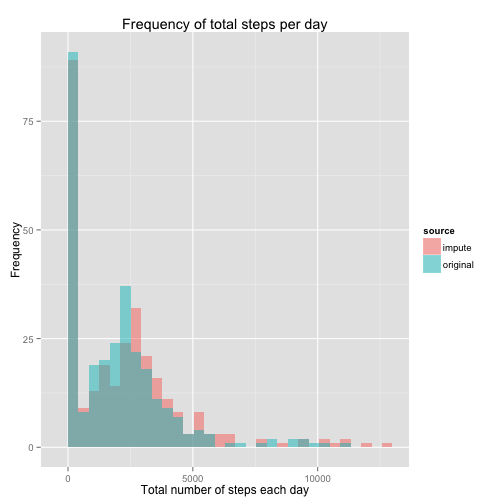
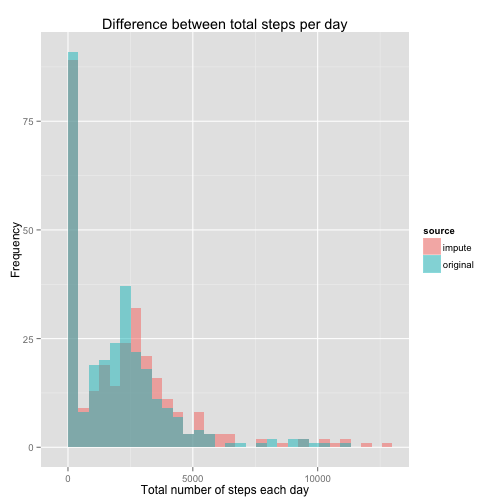
Moar tidy

Changed region(s): [[0.2083, 0.0298, 0.6845, 0.0595]]

diff --git a/PA1_template.html b/PA1_template.html
@@ -240,21 +240,15 @@ plot(figure.stepsDay)
 
 <h3>The mean and median total number of steps taken per day</h3>
 
-<p><em>Mean</em> number of steps per day:</p>
-
-<pre><code class="r">mean(summary.stepsDay$totalSteps, na.rm = TRUE)
+<pre><code class="r">meanStepsDay &lt;- mean(summary.stepsDay$totalSteps, na.rm = TRUE)
 </code></pre>
 
-<pre><code>## [1] 9354
+<p><em>Mean</em> number of steps per day: <strong>9354.2295</strong></p>
+
+<pre><code class="r">medianStepsDay &lt;- median(summary.stepsDay$totalSteps, na.rm = TRUE)
 </code></pre>
 
-<p><em>Median</em> number of steps per day:</p>
-
-<pre><code class="r">median(summary.stepsDay$totalSteps, na.rm = TRUE)
-</code></pre>
-
-<pre><code>## [1] 10395
-</code></pre>
+<p><em>Median</em> number of steps per day: <strong>10395</strong></p>
 
 <h2>What is the average daily activity pattern?</h2>
 
@@ -279,26 +273,20 @@ plot(figure.stepsInterval)
 
 <h3>The five minute interval that on average contains the most number of steps</h3>
 
-<p>Five minute interval:</p>
-
 <pre><code class="r">summary.stepsIntervalMax &lt;- summary.stepsInterval[which.max(summary.stepsInterval$meanSteps),]
-summary.stepsIntervalMax$interval
+intervalMax &lt;- summary.stepsIntervalMax$interval
 </code></pre>
 
-<pre><code>## [1] 835
-</code></pre>
+<p>Five minute interval that on average contains the most number of steps is: <strong>835</strong></p>
 
 <h2>Imputing missing values</h2>
 
 <h3>Total number of missing values in the dataset (i.e. the total number of rows with NAs)</h3>
 
-<p>Total number of missing values in the dataset is:</p>
-
-<pre><code class="r">sum(is.na(data.all))
+<pre><code class="r">naSum &lt;- sum(is.na(data.all))
 </code></pre>
 
-<pre><code>## [1] 2304
-</code></pre>
+<p>Total number of missing values in the dataset is: <strong>2304</strong></p>
 
 <h3>Replace missing values</h3>
 
@@ -335,21 +323,15 @@ plot(figure.stepsDayImpute)
 
 <h3>The mean and median total number of steps taken per day</h3>
 
-<p><em>Mean</em> number of steps per day imputed:</p>
-
-<pre><code class="r">mean(summary.stepsDayImpute$totalSteps, na.rm = TRUE)
+<pre><code class="r">meanStepsDayImpute &lt;- mean(summary.stepsDayImpute$totalSteps, na.rm = TRUE)
 </code></pre>
 
-<pre><code>## [1] 10766
+<p><em>Mean</em> number of steps per day imputed: <strong>1.0766 &times; 10<sup>4</sup></strong></p>
+
+<pre><code class="r">medianStepsDayImpute &lt;- median(summary.stepsDayImpute$totalSteps, na.rm = TRUE)
 </code></pre>
 
-<p><em>Median</em> number of steps per day imputed:</p>
-
-<pre><code class="r">median(summary.stepsDayImpute$totalSteps, na.rm = TRUE)
-</code></pre>
-
-<pre><code>## [1] 10766
-</code></pre>
+<p><em>Median</em> number of steps per day imputed: <strong>1.0766 &times; 10<sup>4</sup></strong></p>
 
 <h3>Does the imputed data differ from the orginal data?</h3>
 
@@ -368,7 +350,7 @@ summary.stepsDayCombined &lt;- ddply(data.combined, .(source,interval),
 ## Plot overlaided histograms
 figure.stepsDayCombined &lt;- ggplot(summary.stepsDayCombined, aes(x=totalSteps, fill=source)) + 
                          geom_histogram(alpha=.5, position=&quot;identity&quot;)  +                  
-                         ggtitle(&quot;Frequency of total steps per day&quot;) +
+                         ggtitle(&quot;Difference between total steps per day&quot;) +
                          xlab(&quot;Total number of steps each day&quot;) +
                          ylab(&quot;Frequency&quot;)
 
@@ -378,23 +360,17 @@ plot(figure.stepsDayCombined)
 <pre><code>## stat_bin: binwidth defaulted to range/30. Use &#39;binwidth = x&#39; to adjust this.
 </code></pre>
 
[2 lines of base64/hex data omitted]
 
-<p>The <em>mean</em> number of steps per day from imputed data differs from the orignal by:</p>
-
-<pre><code class="r">mean(summary.stepsDayImpute$totalSteps, na.rm = TRUE) - mean(summary.stepsDay$totalSteps, na.rm = TRUE)
+<pre><code class="r">meanDiff &lt;- mean(summary.stepsDayImpute$totalSteps, na.rm = TRUE) - mean(summary.stepsDay$totalSteps, na.rm = TRUE)
 </code></pre>
 
-<pre><code>## [1] 1412
+<p>The <em>mean</em> number of steps per day from imputed data differs from the orignal by: <strong>1411.9592</strong></p>
+
+<pre><code class="r">medianDiff &lt;- median(summary.stepsDayImpute$totalSteps, na.rm = TRUE) - median(summary.stepsDay$totalSteps, na.rm = TRUE)
 </code></pre>
 
-<p>The <em>median</em> number of steps per day from imputed data differs from the orignal by:</p>
-
-<pre><code class="r">median(summary.stepsDayImpute$totalSteps, na.rm = TRUE) - median(summary.stepsDay$totalSteps, na.rm = TRUE)
-</code></pre>
-
-<pre><code>## [1] 371.2
-</code></pre>
+<p>The <em>median</em> number of steps per day from imputed data differs from the orignal by: <strong>371.1887</strong></p>
 
 <p><em>Imputing missing data on the estimates of the total daily number of steps smooths out the the distrubution a little.</em></p>
 

diff --git a/PA1_template.md b/PA1_template.md
@@ -71,24 +71,18 @@ plot(figure.stepsDay)
 
 ### The mean and median total number of steps taken per day
 
-*Mean* number of steps per day:
 
 ```r
-mean(summary.stepsDay$totalSteps, na.rm = TRUE)
+meanStepsDay <- mean(summary.stepsDay$totalSteps, na.rm = TRUE)
 ```
+*Mean* number of steps per day: **9354.2295**
 
-```
-## [1] 9354
-```
-*Median* number of steps per day:
 
 ```r
-median(summary.stepsDay$totalSteps, na.rm = TRUE)
+medianStepsDay <- median(summary.stepsDay$totalSteps, na.rm = TRUE)
 ```
+*Median* number of steps per day: **10395**
 
-```
-## [1] 10395
-```
 
 ## What is the average daily activity pattern?
 
@@ -115,32 +109,23 @@ plot(figure.stepsInterval)
 
 ### The five minute interval that on average contains the most number of steps
 
-Five minute interval:
-
 
 ```r
 summary.stepsIntervalMax <- summary.stepsInterval[which.max(summary.stepsInterval$meanSteps),]
-summary.stepsIntervalMax$interval
+intervalMax <- summary.stepsIntervalMax$interval
 ```
-
-```
-## [1] 835
-```
-
+Five minute interval that on average contains the most number of steps is: **835**
 
 ## Imputing missing values
 
 ### Total number of missing values in the dataset (i.e. the total number of rows with NAs)
 
-Total number of missing values in the dataset is:
 
 ```r
-sum(is.na(data.all))
+naSum <- sum(is.na(data.all))
 ```
+Total number of missing values in the dataset is: **2304**
 
-```
-## [1] 2304
-```
 
 ### Replace missing values
 
@@ -184,24 +169,18 @@ plot(figure.stepsDayImpute)
 
 ### The mean and median total number of steps taken per day
 
-*Mean* number of steps per day imputed:
 
 ```r
-mean(summary.stepsDayImpute$totalSteps, na.rm = TRUE)
+meanStepsDayImpute <- mean(summary.stepsDayImpute$totalSteps, na.rm = TRUE)
 ```
+*Mean* number of steps per day imputed: **1.0766 &times; 10<sup>4</sup>**
 
-```
-## [1] 10766
-```
-*Median* number of steps per day imputed:
 
 ```r
-median(summary.stepsDayImpute$totalSteps, na.rm = TRUE)
+medianStepsDayImpute <- median(summary.stepsDayImpute$totalSteps, na.rm = TRUE)
 ```
+*Median* number of steps per day imputed: **1.0766 &times; 10<sup>4</sup>**
 
-```
-## [1] 10766
-```
 
 ### Does the imputed data differ from the orginal data?
 
@@ -222,7 +201,7 @@ summary.stepsDayCombined <- ddply(data.combined, .(source,interval),
 ## Plot overlaided histograms
 figure.stepsDayCombined <- ggplot(summary.stepsDayCombined, aes(x=totalSteps, fill=source)) + 
                          geom_histogram(alpha=.5, position="identity")  +                  
-                         ggtitle("Frequency of total steps per day") +
+                         ggtitle("Difference between total steps per day") +
                          xlab("Total number of steps each day") +
                          ylab("Frequency")
 
@@ -235,27 +214,17 @@ plot(figure.stepsDayCombined)
 
 ![plot of chunk unnamed-chunk-15](figure/unnamed-chunk-15.png) 
 
-The *mean* number of steps per day from imputed data differs from the orignal by:
+
+```r
+meanDiff <- mean(summary.stepsDayImpute$totalSteps, na.rm = TRUE) - mean(summary.stepsDay$totalSteps, na.rm = TRUE)
+```
+The *mean* number of steps per day from imputed data differs from the orignal by: **1411.9592**
 
 
 ```r
-mean(summary.stepsDayImpute$totalSteps, na.rm = TRUE) - mean(summary.stepsDay$totalSteps, na.rm = TRUE)
+medianDiff <- median(summary.stepsDayImpute$totalSteps, na.rm = TRUE) - median(summary.stepsDay$totalSteps, na.rm = TRUE)
 ```
-
-```
-## [1] 1412
-```
-
-The *median* number of steps per day from imputed data differs from the orignal by:
-
-
-```r
-median(summary.stepsDayImpute$totalSteps, na.rm = TRUE) - median(summary.stepsDay$totalSteps, na.rm = TRUE)
-```
-
-```
-## [1] 371.2
-```
+The *median* number of steps per day from imputed data differs from the orignal by: **371.1887**
 
 *Imputing missing data on the estimates of the total daily number of steps smooths out the the distrubution a little.*
 
